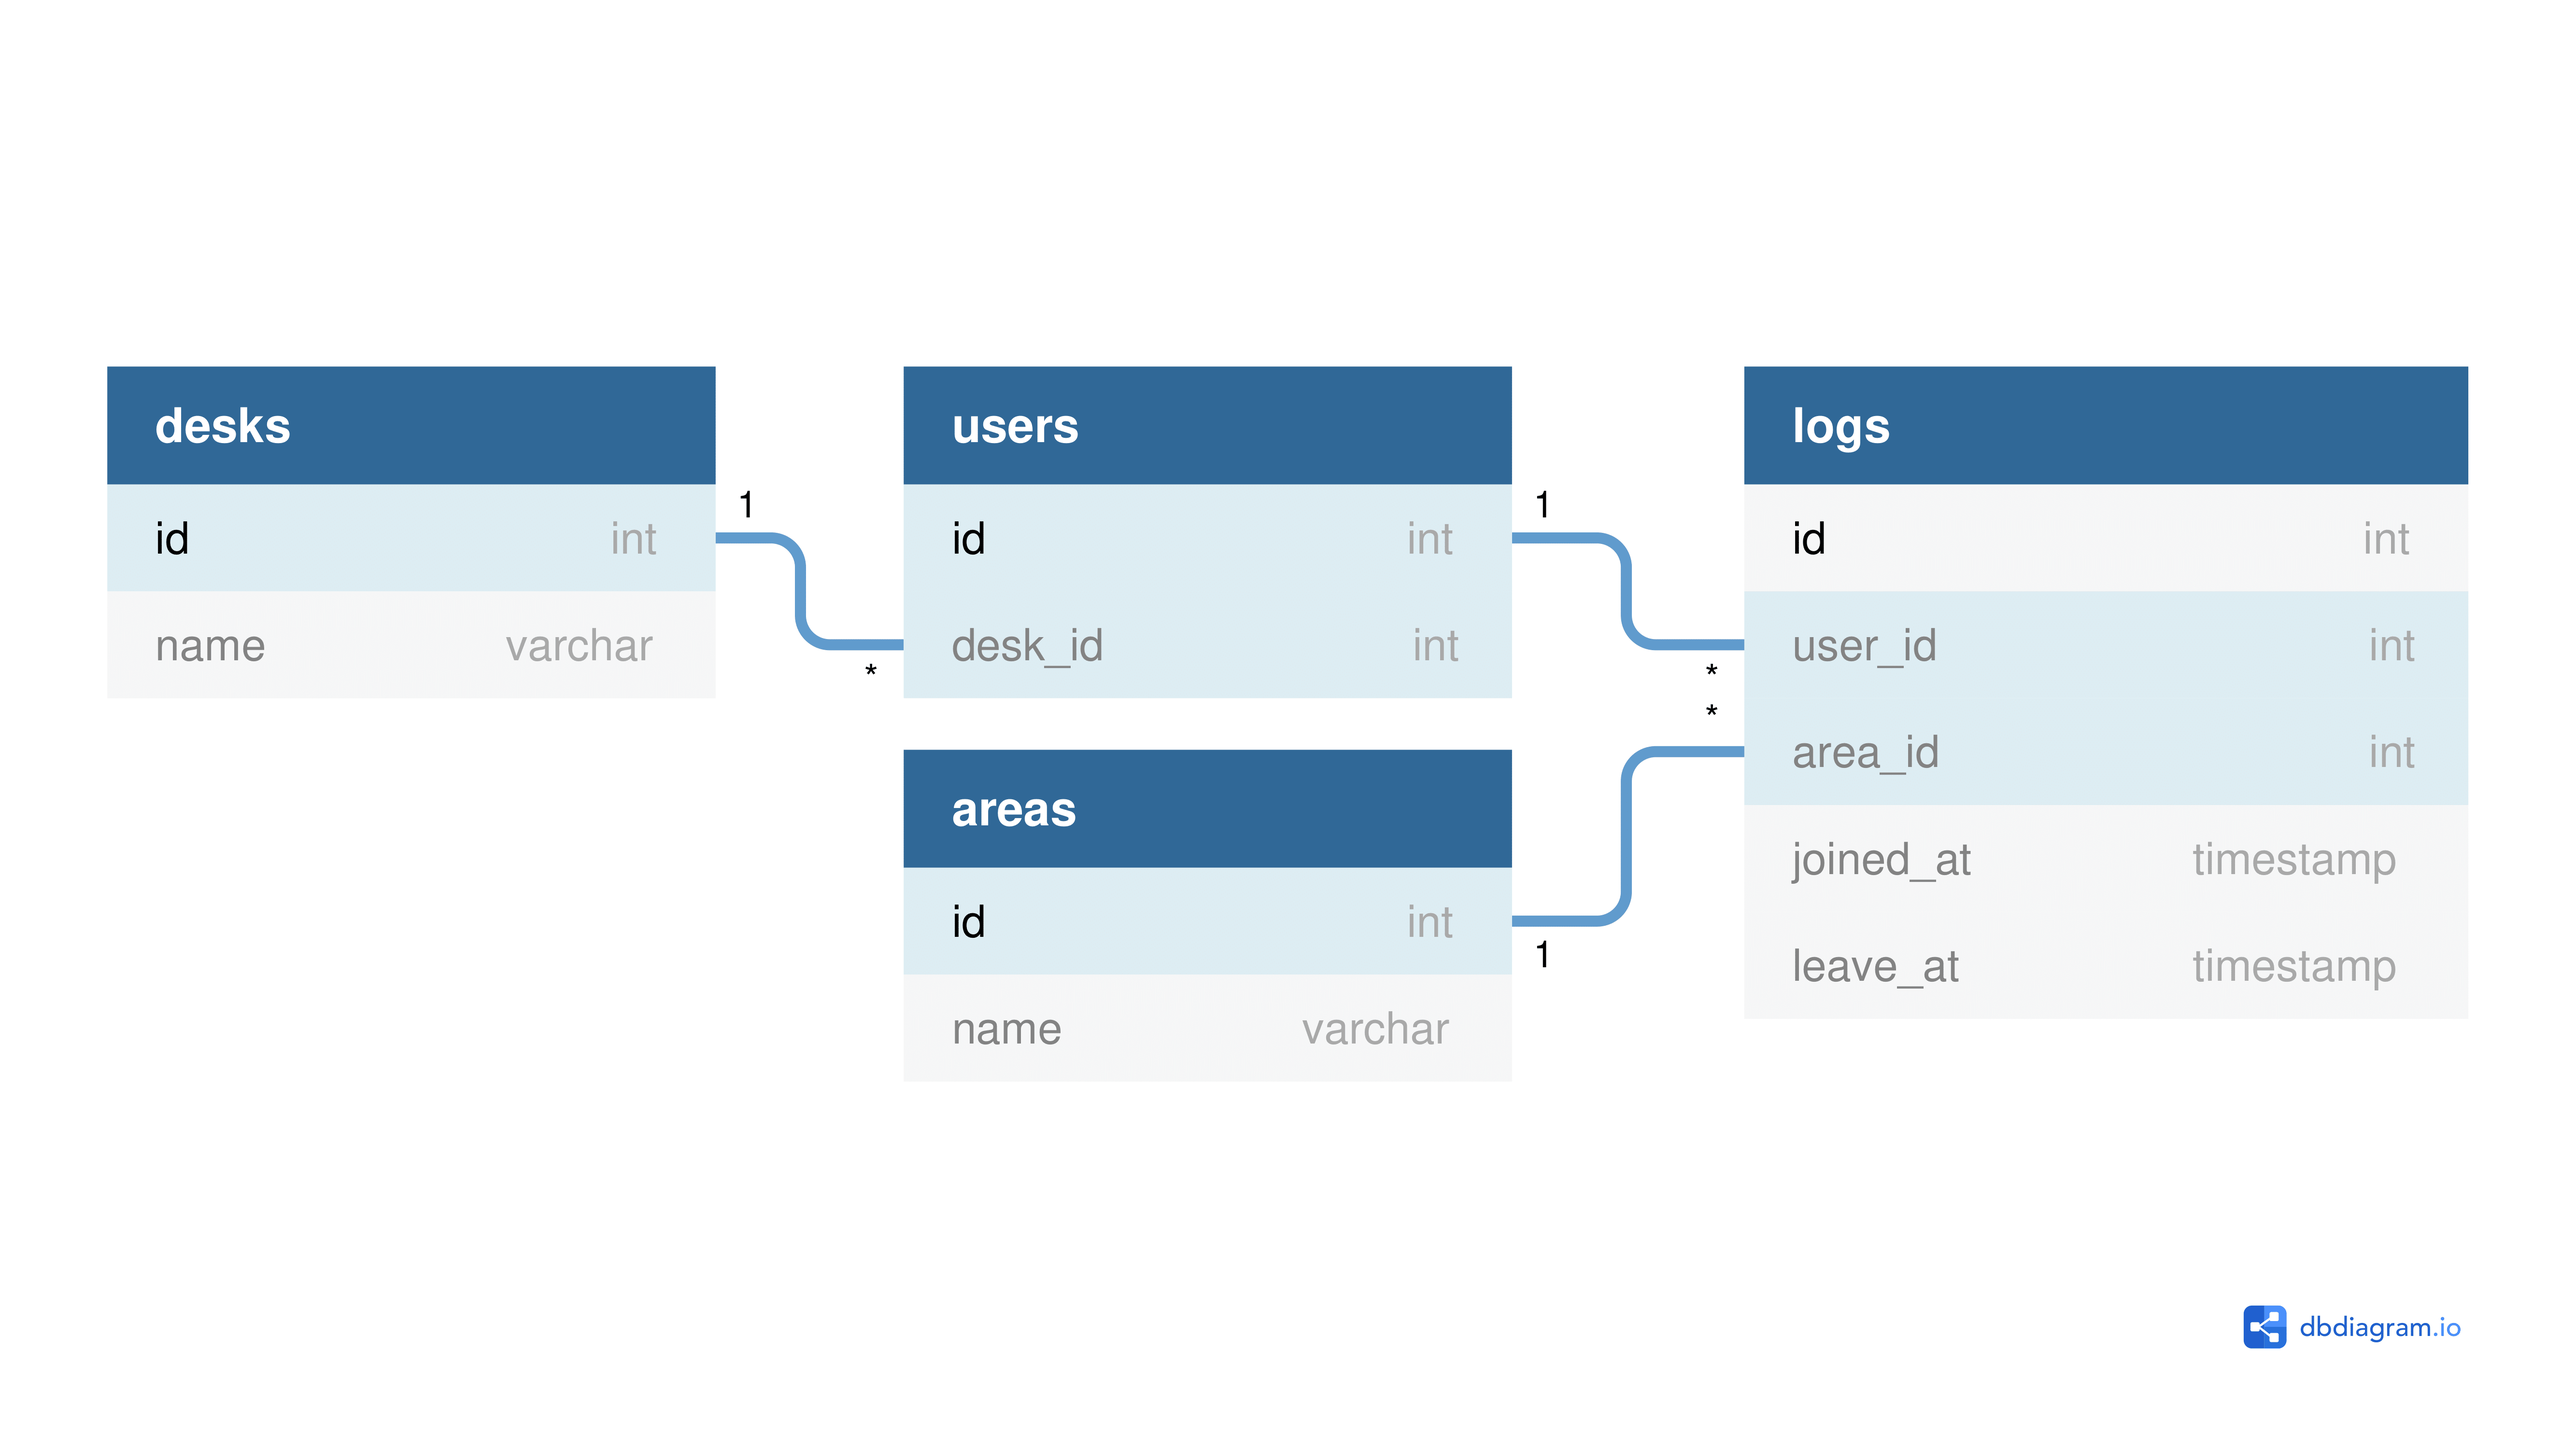
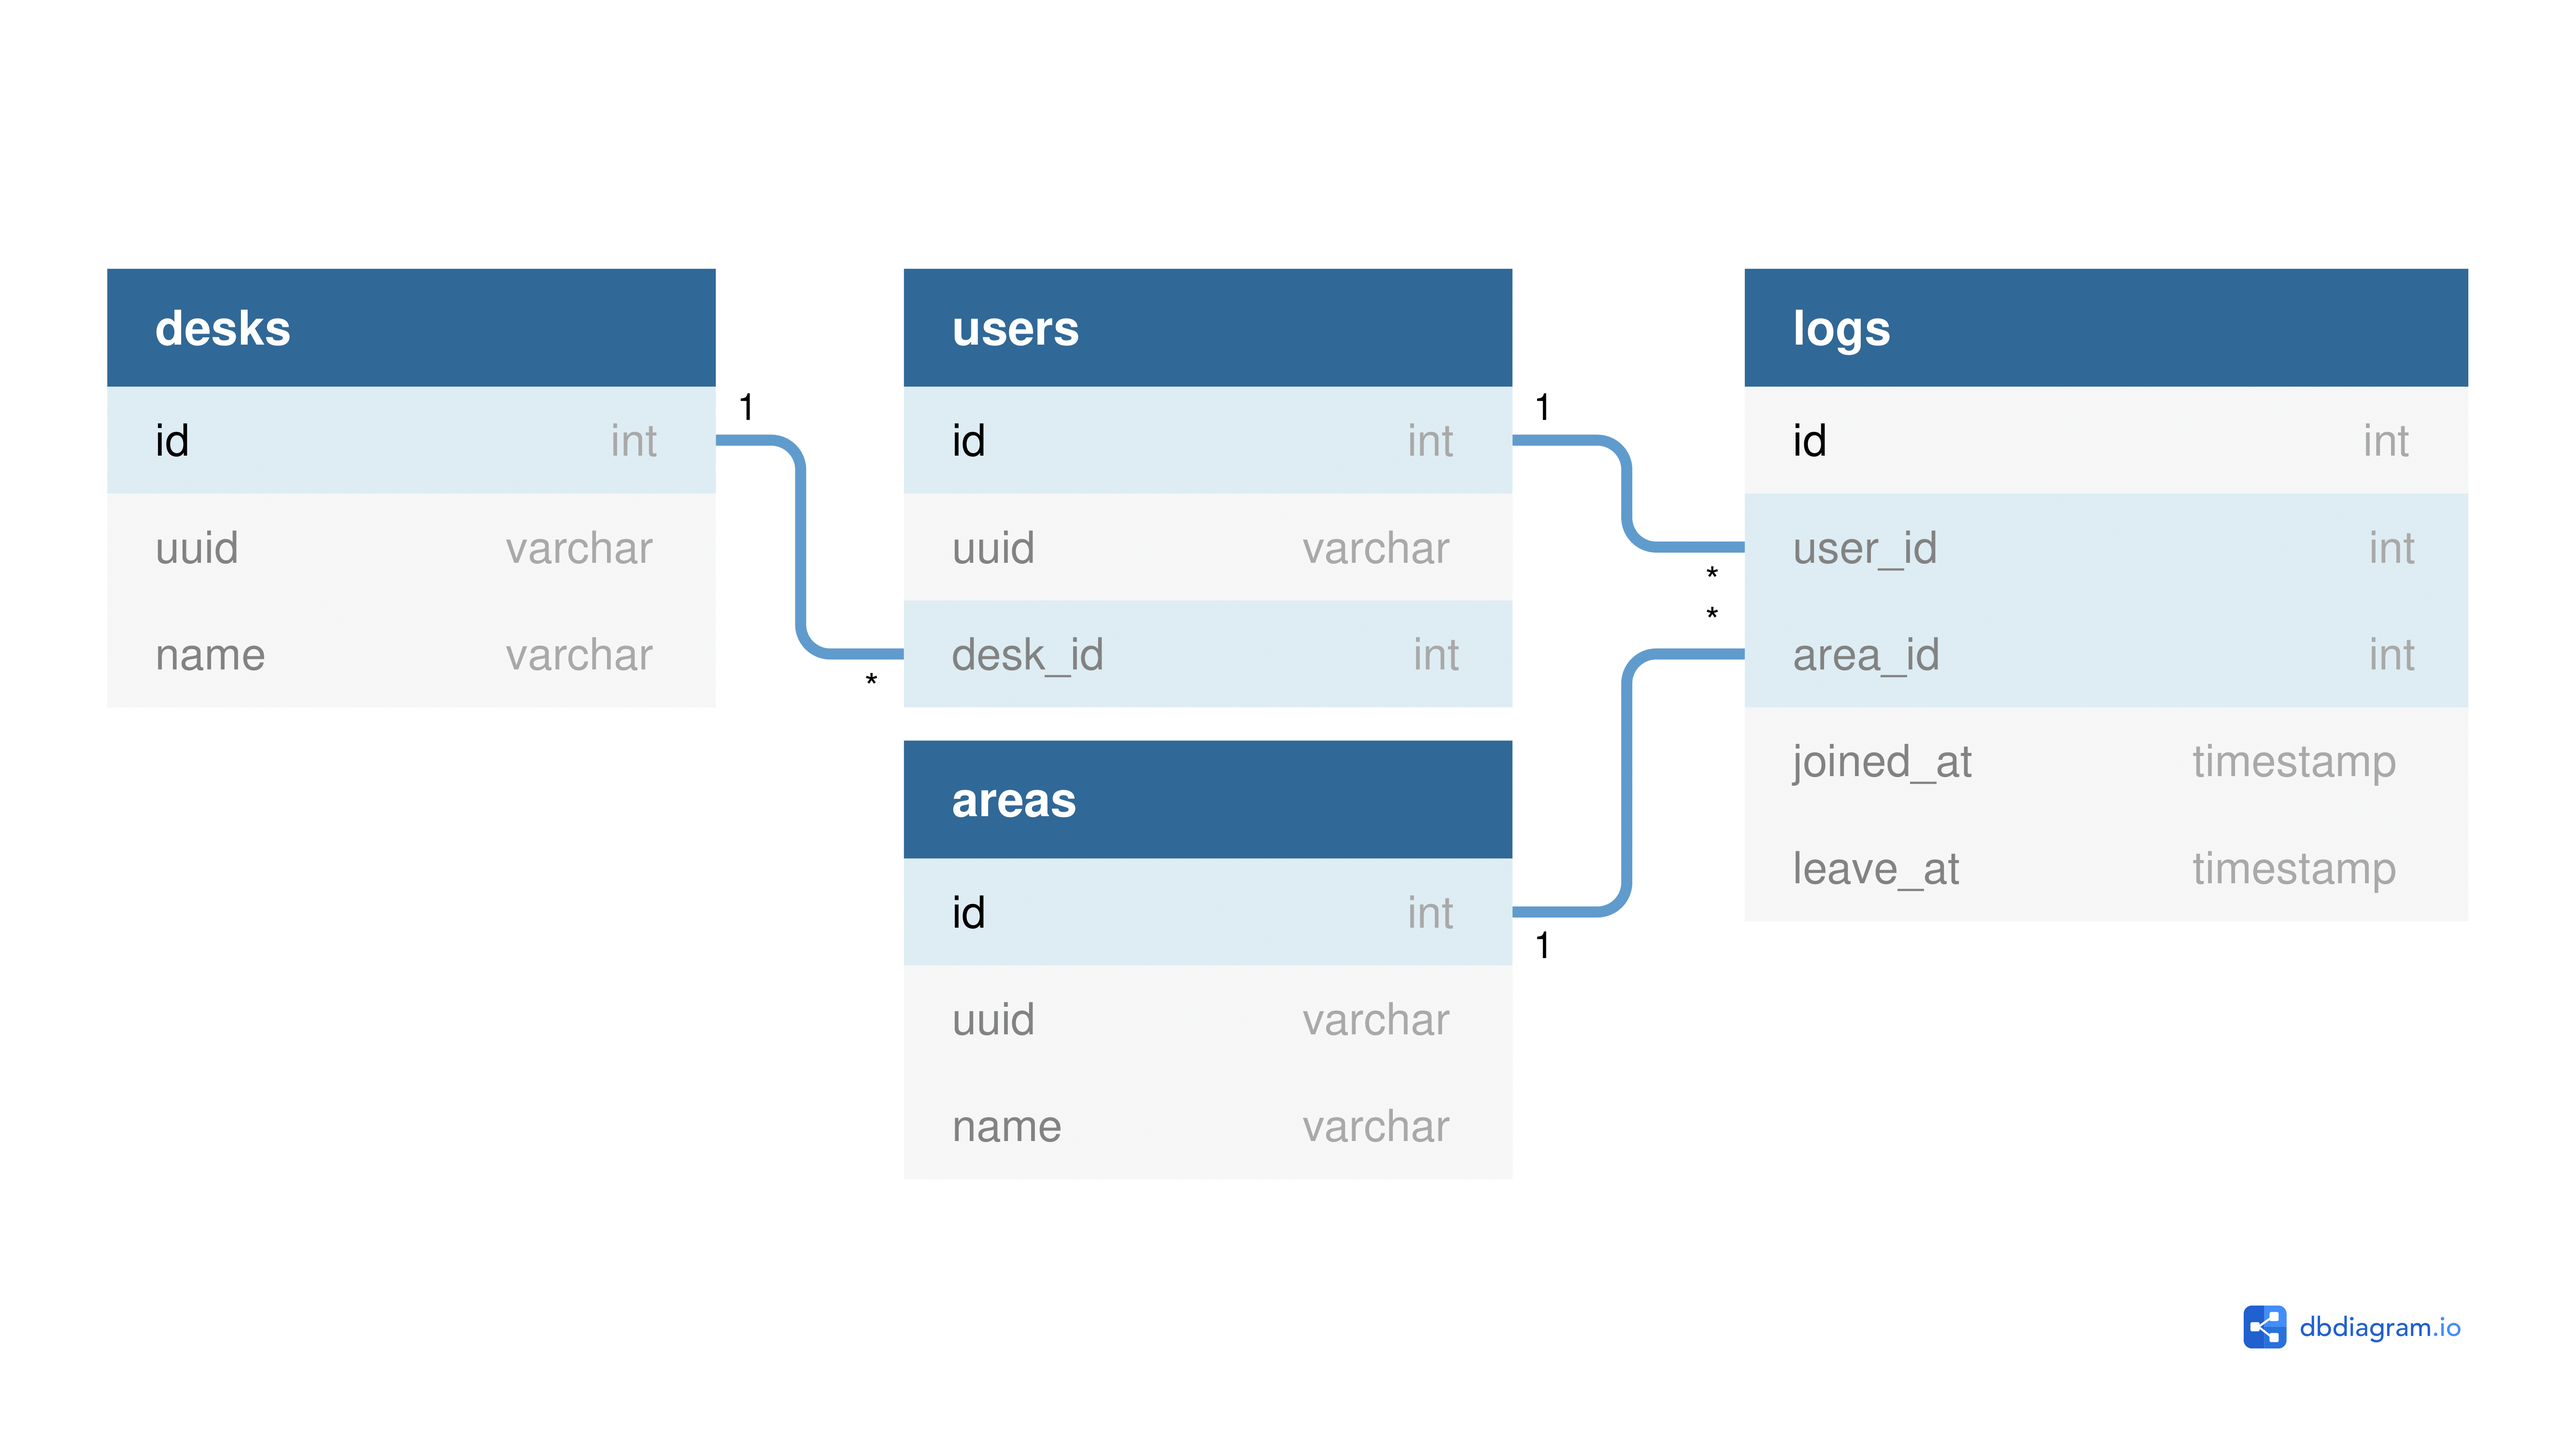
feat(server): データベースにUUIDカラムを追加

diff --git a/server/src/main/kotlin/dev/s7a/w3/server/database/table/Areas.kt b/server/src/main/kotlin/dev/s7a/w3/server/database/table/Areas.kt
@@ -1,6 +1,7 @@
 package dev.s7a.w3.server.database.table
 
 import org.jetbrains.exposed.dao.id.IntIdTable
+import java.util.UUID
 
 /**
  * エリアテーブル
@@ -10,6 +11,11 @@ object Areas : IntIdTable("areas") {
      * 名前の文字数
      */
     const val nameLength = 255
+
+    /**
+     * 識別子
+     */
+    val uuid = uuid("uuid").clientDefault(UUID::randomUUID)
 
     /**
      * 名前

diff --git a/server/src/main/kotlin/dev/s7a/w3/server/database/table/Desks.kt b/server/src/main/kotlin/dev/s7a/w3/server/database/table/Desks.kt
@@ -1,6 +1,7 @@
 package dev.s7a.w3.server.database.table
 
 import org.jetbrains.exposed.dao.id.IntIdTable
+import java.util.UUID
 
 /**
  * 受付テーブル
@@ -10,6 +11,11 @@ object Desks : IntIdTable("desks") {
      * 名前の文字数
      */
     const val nameLength = 255
+
+    /**
+     * 識別子
+     */
+    val uuid = uuid("uuid").clientDefault(UUID::randomUUID)
 
     /**
      * 名前

diff --git a/server/src/main/kotlin/dev/s7a/w3/server/database/table/Users.kt b/server/src/main/kotlin/dev/s7a/w3/server/database/table/Users.kt
@@ -1,11 +1,17 @@
 package dev.s7a.w3.server.database.table
 
 import org.jetbrains.exposed.dao.id.IntIdTable
+import java.util.UUID
 
 /**
  * ユーザーテーブル
  */
 object Users : IntIdTable("users") {
+    /**
+     * 識別子
+     */
+    val uuid = uuid("uuid").clientDefault(UUID::randomUUID)
+
     /**
      * 受付
      */

diff --git a/server/src/main/kotlin/dev/s7a/w3/server/database/entity/User.kt b/server/src/main/kotlin/dev/s7a/w3/server/database/entity/User.kt
@@ -13,6 +13,11 @@ class User(id: EntityID<Int>) : IntEntity(id) {
     companion object : IntEntityClass<User>(Users)
 
     /**
+     * 識別子名
+     */
+    val uuid by Users.uuid
+
+    /**
      * 受付
      */
     var desk by Desk referencedOn Users.deskId

diff --git a/server/src/main/kotlin/dev/s7a/w3/server/database/entity/Area.kt b/server/src/main/kotlin/dev/s7a/w3/server/database/entity/Area.kt
@@ -13,6 +13,11 @@ class Area(id: EntityID<Int>) : IntEntity(id) {
     companion object : IntEntityClass<Area>(Areas)
 
     /**
+     * 識別子名
+     */
+    val uuid by Areas.uuid
+
+    /**
      * エリア名
      */
     var name by Areas.name

diff --git a/server/src/main/kotlin/dev/s7a/w3/server/database/entity/Desk.kt b/server/src/main/kotlin/dev/s7a/w3/server/database/entity/Desk.kt
@@ -13,6 +13,11 @@ class Desk(id: EntityID<Int>) : IntEntity(id) {
     companion object : IntEntityClass<Desk>(Desks)
 
     /**
+     * 識別子名
+     */
+    val uuid by Desks.uuid
+
+    /**
      * 受付名
      */
     var name by Desks.name
